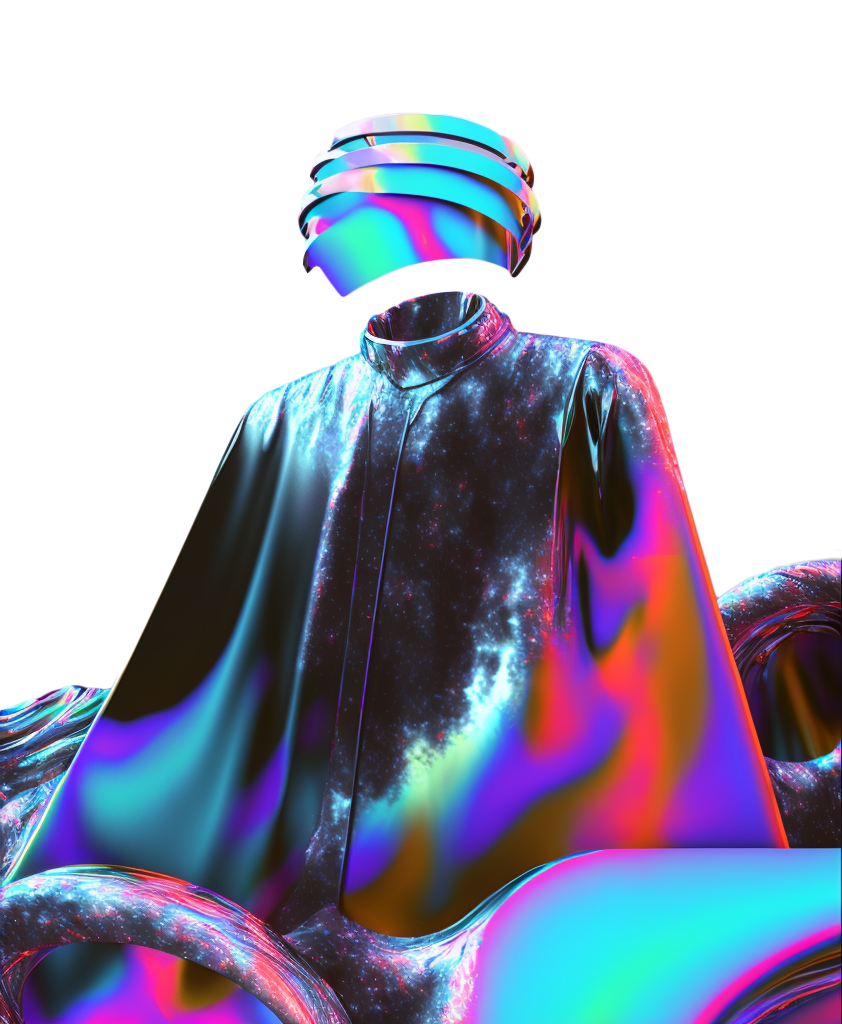
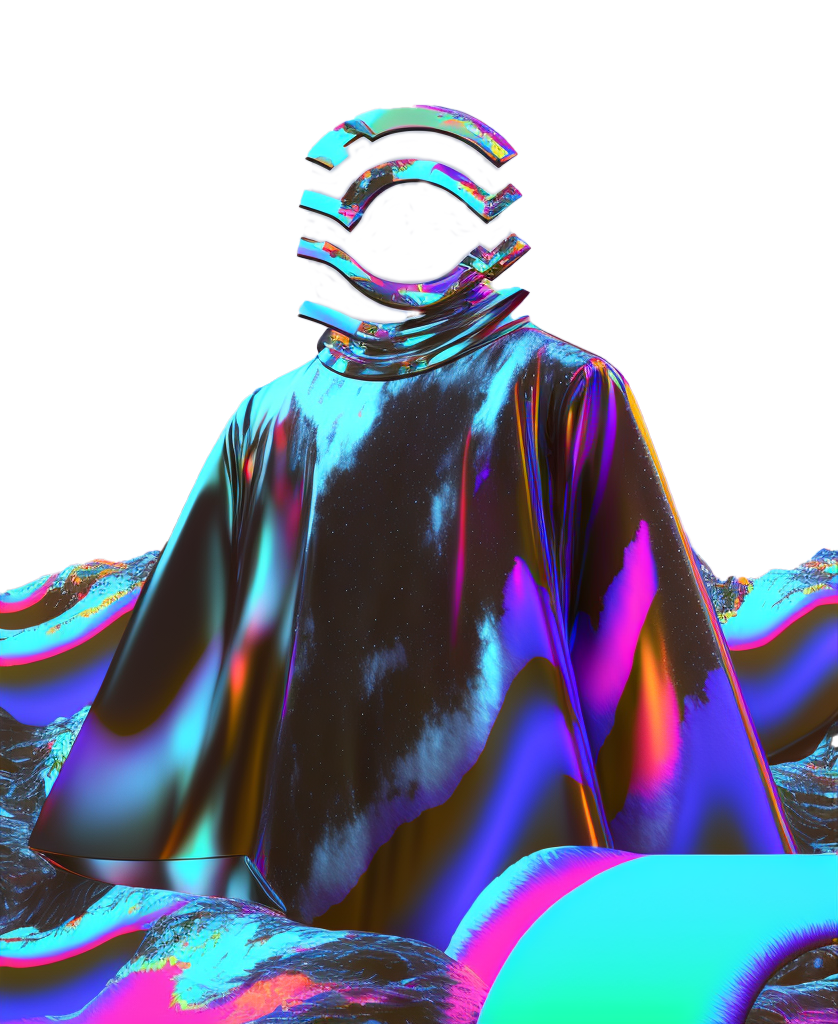
rendered the nft Images

diff --git a/src/container/Membership/NFTs.tsx b/src/container/Membership/NFTs.tsx
@@ -1,0 +1,67 @@
+import { Box, Stack, makeStyles } from "@mui/material";
+import React from "react";
+import Image from "next/image";
+
+interface NFT {
+  name: string;
+  url: string;
+  //   styles: string[];
+}
+
+const NFTArray: NFT[] = [
+  { name: "nft1", url: "/NFTS/Nft_0.png" },
+  { name: "nft2", url: "/NFTS/Nft_2.png" },
+  { name: "nft3", url: "/NFTS/Nft_3.png" },
+];
+
+const NFTs: React.FC = () => {
+  const classes = useStyles();
+  return (
+    <Stack
+      direction="column"
+      spacing={10}
+      alignItems="center"
+      justifyContent="center"
+    >
+      <div>
+        <h2 id="Artwork">1000 UNIQUE MEMBERSHIP CARD UTILITY</h2>
+      </div>
+      <Stack direction="row" spacing={4}>
+        {NFTArray.map((object) => {
+          return (
+            <Box
+              key={object.name}
+              sx={{
+                width: "21rem",
+                height: "25rem",
+                padding: "1.3em",
+                border: "3px solid #e277ae",
+                borderImage: "linear-gradient(to right, #3966FF, #FF599C) 1",
+                borderRadius: "10px",
+                background: "linear-gradient(-45deg, #1a1a1c, #2c0f32)",
+                position: "relative",
+                animationDuration: "0.3s",
+              }}
+            >
+              <Image
+                src={object.url}
+                alt={`image of ${object.name}`}
+                width={300}
+                height={360}
+                style={{
+                  height: "90%",
+                  width: "90%",
+                  border: " 1px solid #c35c91",
+                  borderRadius: "10px",
+                  zIndex: "1",
+                }}
+              ></Image>
+            </Box>
+          );
+        })}
+      </Stack>
+    </Stack>
+  );
+};
+
+export default NFTs;

diff --git a/src/container/Membership/HeaderMembership.tsx b/src/container/Membership/HeaderMembership.tsx
@@ -26,7 +26,7 @@ function HeaderMembership() {
           of Crypto Girls Club membership collection.
         </p>
       </Stack>
-      <Stack direction="row">
+      <Stack direction="row" spacing={3}>
         <Button
           href="#JoinUs"
           sx={{
@@ -37,7 +37,7 @@ function HeaderMembership() {
             background: "linear-gradient(90deg, #c71c81, #0798d6)",
             color: "black",
             border: "none",
-            "&hover": {
+            "&:hover": {
               background: "#e277ae",
             },
           }}
@@ -53,6 +53,12 @@ function HeaderMembership() {
             borderRadius: "0.3em",
             textTransform: "uppercase",
             transition: "0.3s",
+            border: "1px #e277ae solid",
+            color: "#fff",
+            "&:hover": {
+              backgroundColor: "#fff",
+              color: "#111",
+            },
           }}
         >
           Learn More

diff --git a/pages/membership.tsx b/pages/membership.tsx
@@ -1,11 +1,16 @@
 import Layout from "@/src/Components/Layout/Layout";
 import React from "react";
 import HeaderMembership from "@/src/container/Membership/HeaderMembership";
+import { Stack } from "@mui/material";
+import NFTs from "@/src/container/Membership/NFTs";
 
 function Membership() {
   return (
     <Layout>
-      <HeaderMembership />
+      <Stack overflow="hidden">
+        <HeaderMembership />
+        <NFTs />
+      </Stack>
     </Layout>
   );
 }
